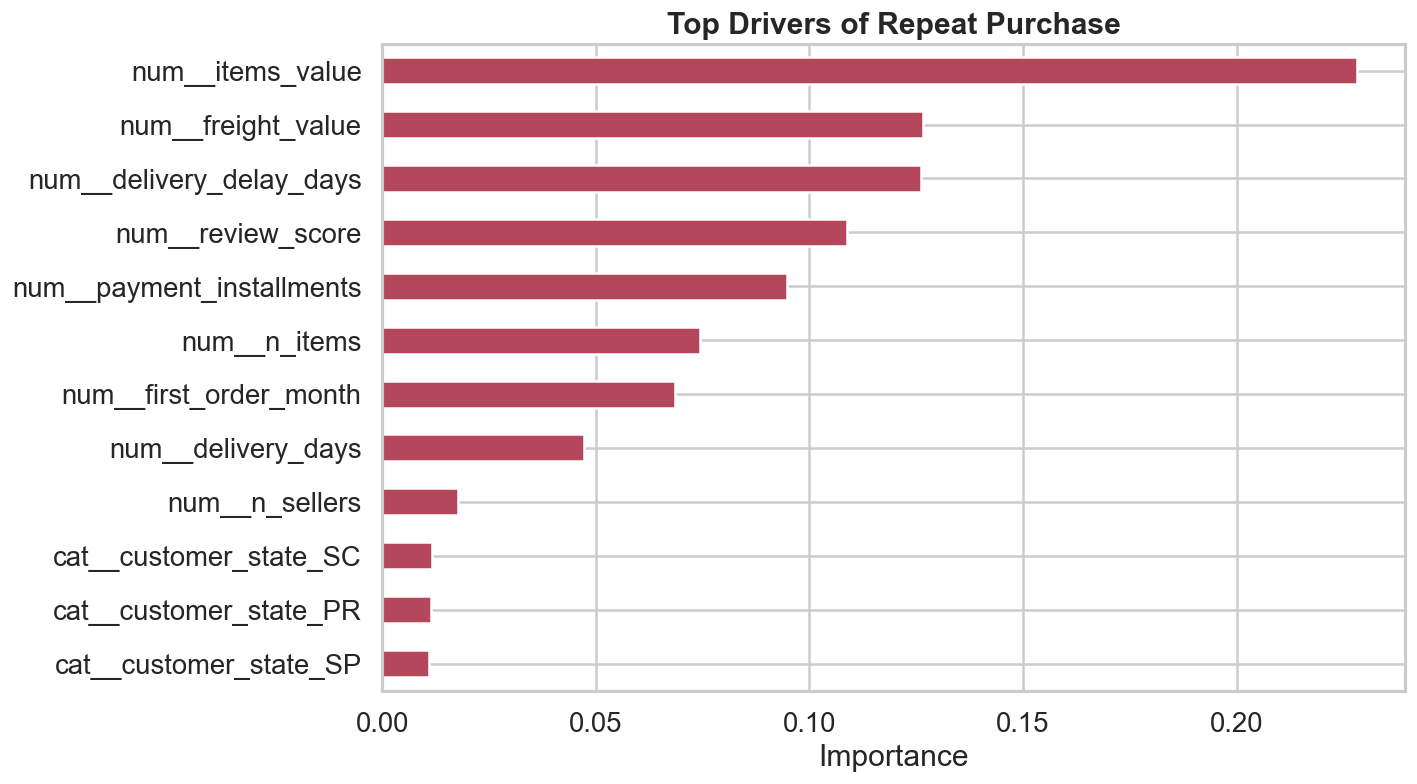
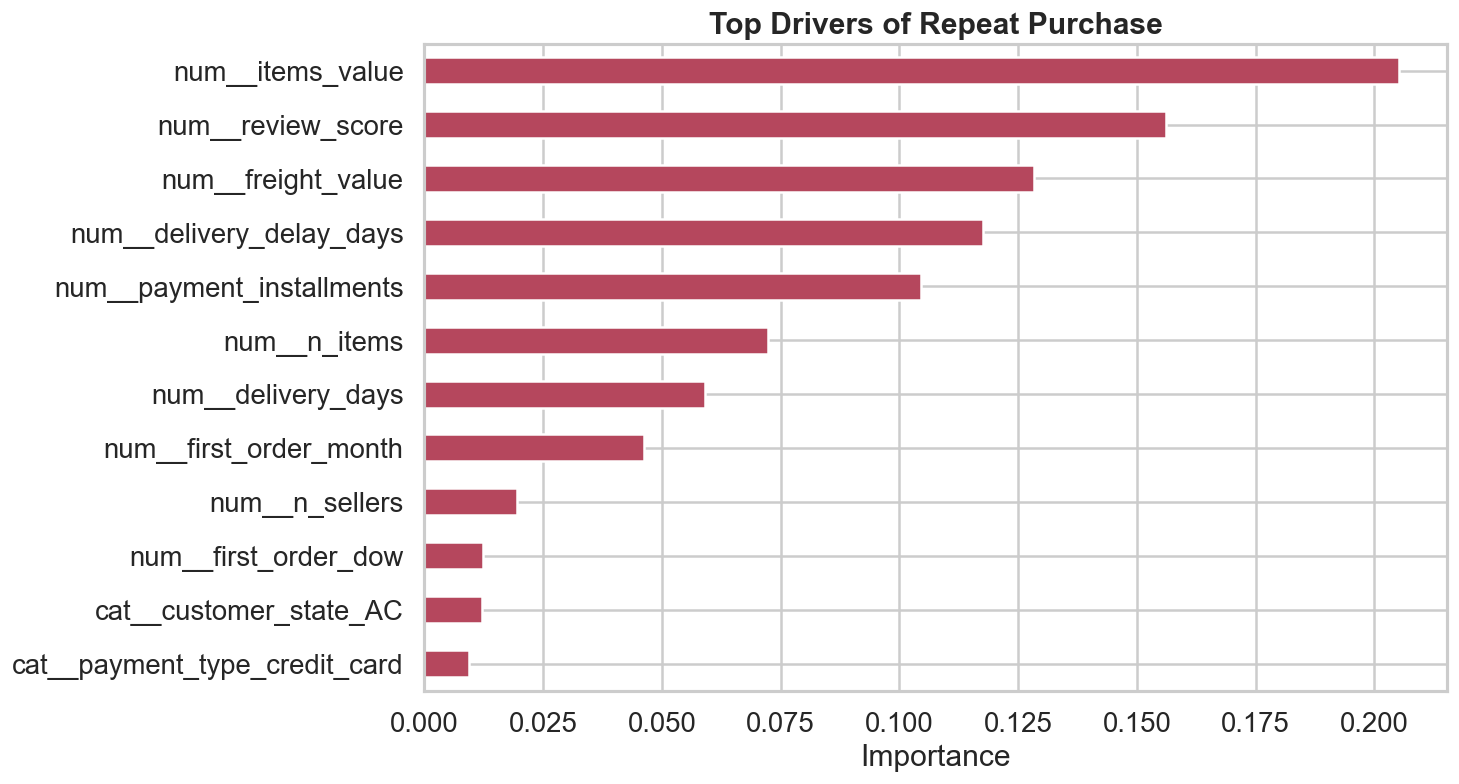
Fix repeat-purchase features to use true first order (not first non-null per column)

diff --git a/src/churn_analysis.py b/src/churn_analysis.py
@@ -90,8 +90,11 @@ def plot_segments(rfm: pd.DataFrame) -> None:
 def build_repeat_dataset(orders: pd.DataFrame) -> pd.DataFrame:
     """One row per customer; features from their FIRST order, label = repeated?"""
     orders = orders.sort_values("order_purchase_timestamp")
-    first = orders.groupby("customer_unique_id").first()
     counts = orders.groupby("customer_unique_id")["order_id"].count()
+    # Take the actual first *row* per customer. groupby().first() would instead
+    # take the first non-null value column-by-column, which can splice a later
+    # order's review/delivery into the "first order" features.
+    first = orders.drop_duplicates("customer_unique_id", keep="first").set_index("customer_unique_id")
 
     df = first.copy()
     df["repeat"] = (counts > 1).astype(int)

diff --git a/reports/SUMMARY.md b/reports/SUMMARY.md
@@ -57,7 +57,7 @@ honest read on a plateaued series with only one year of seasonal history.
 **Repeat-purchase model** (predict a 2nd order from 1st-order features):
 ROC-AUC 0.61 — weak but real signal. Framed as targeting rather than
 classification, the **top propensity decile finds repeaters 1.8x better than
-random**, and the top 3 deciles capture 45% of all repeaters.
+random**, and the top 3 deciles capture ~42% of all repeaters.
 Strongest drivers: order value, freight, **delivery delay**, and review score.
 → `figures/09`, `10`, `11`
 
